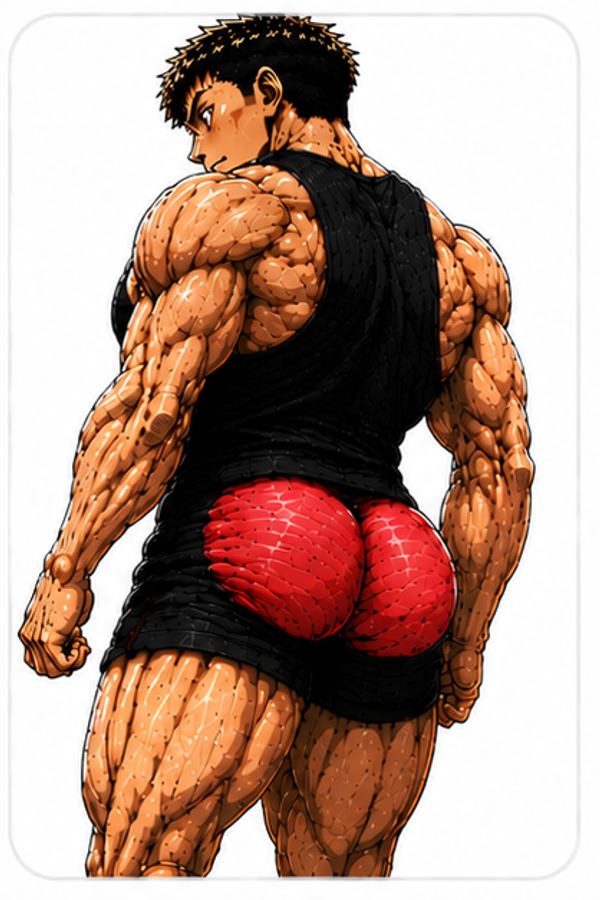
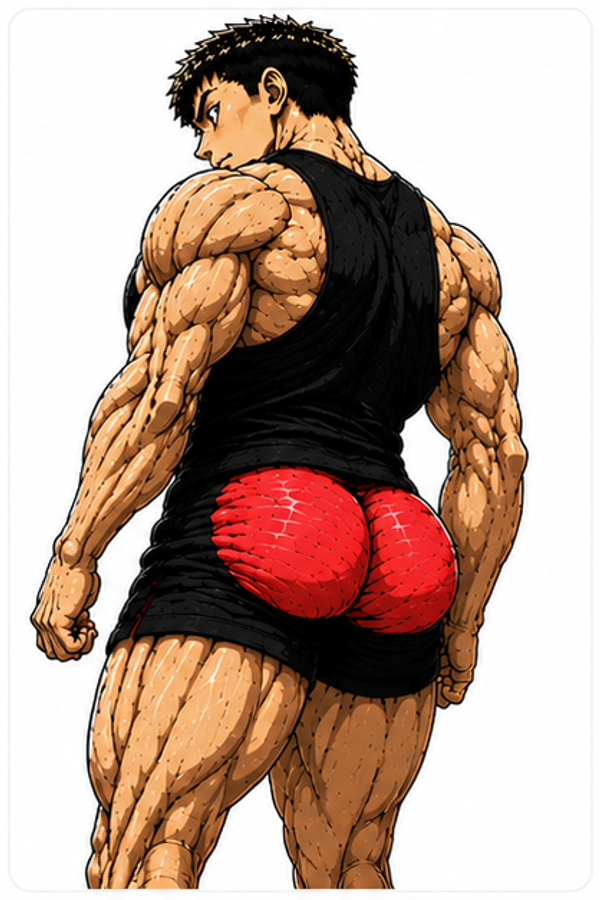
ライトモード用ダッシュボードタイル6枚を ライトモード2 (高画質版) に差替 / SW v21

diff --git a/ui-mockups/sw.js b/ui-mockups/sw.js
@@ -1,5 +1,5 @@
 // kinntore PWA service worker
-const VERSION = 'v20';
+const VERSION = 'v21';
 const CACHE = `kinntore-${VERSION}`;
 const PRECACHE = [
   './',
